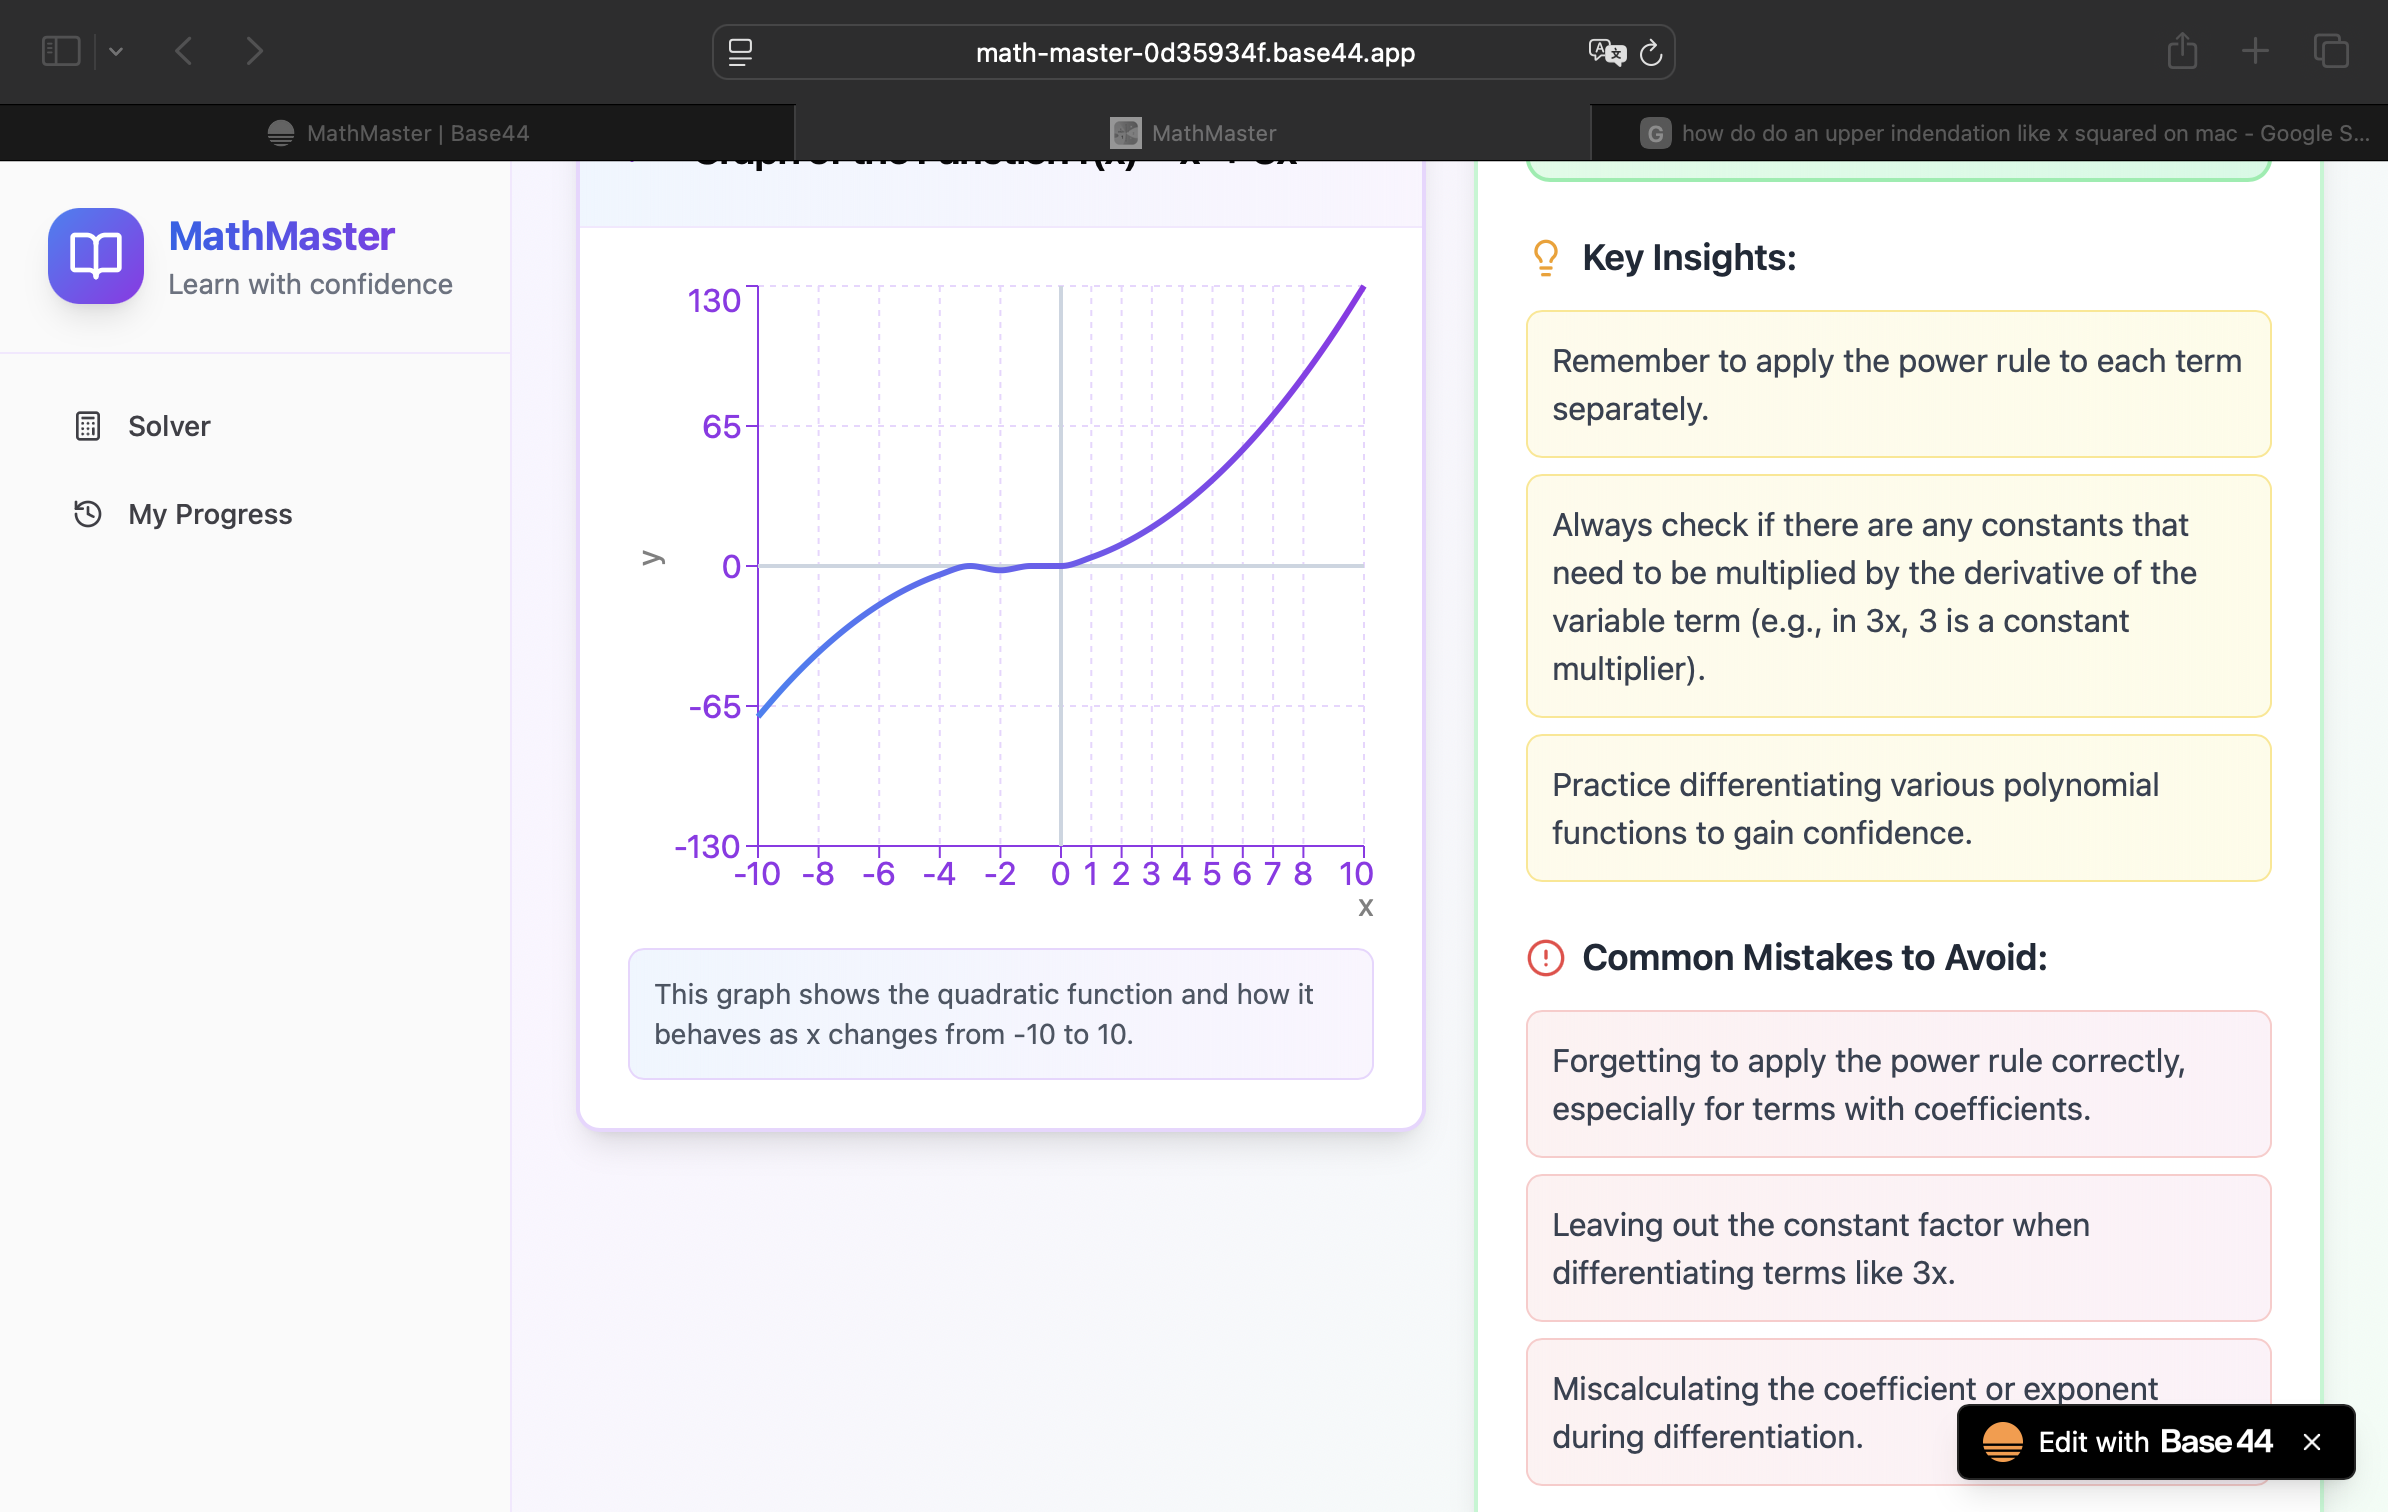
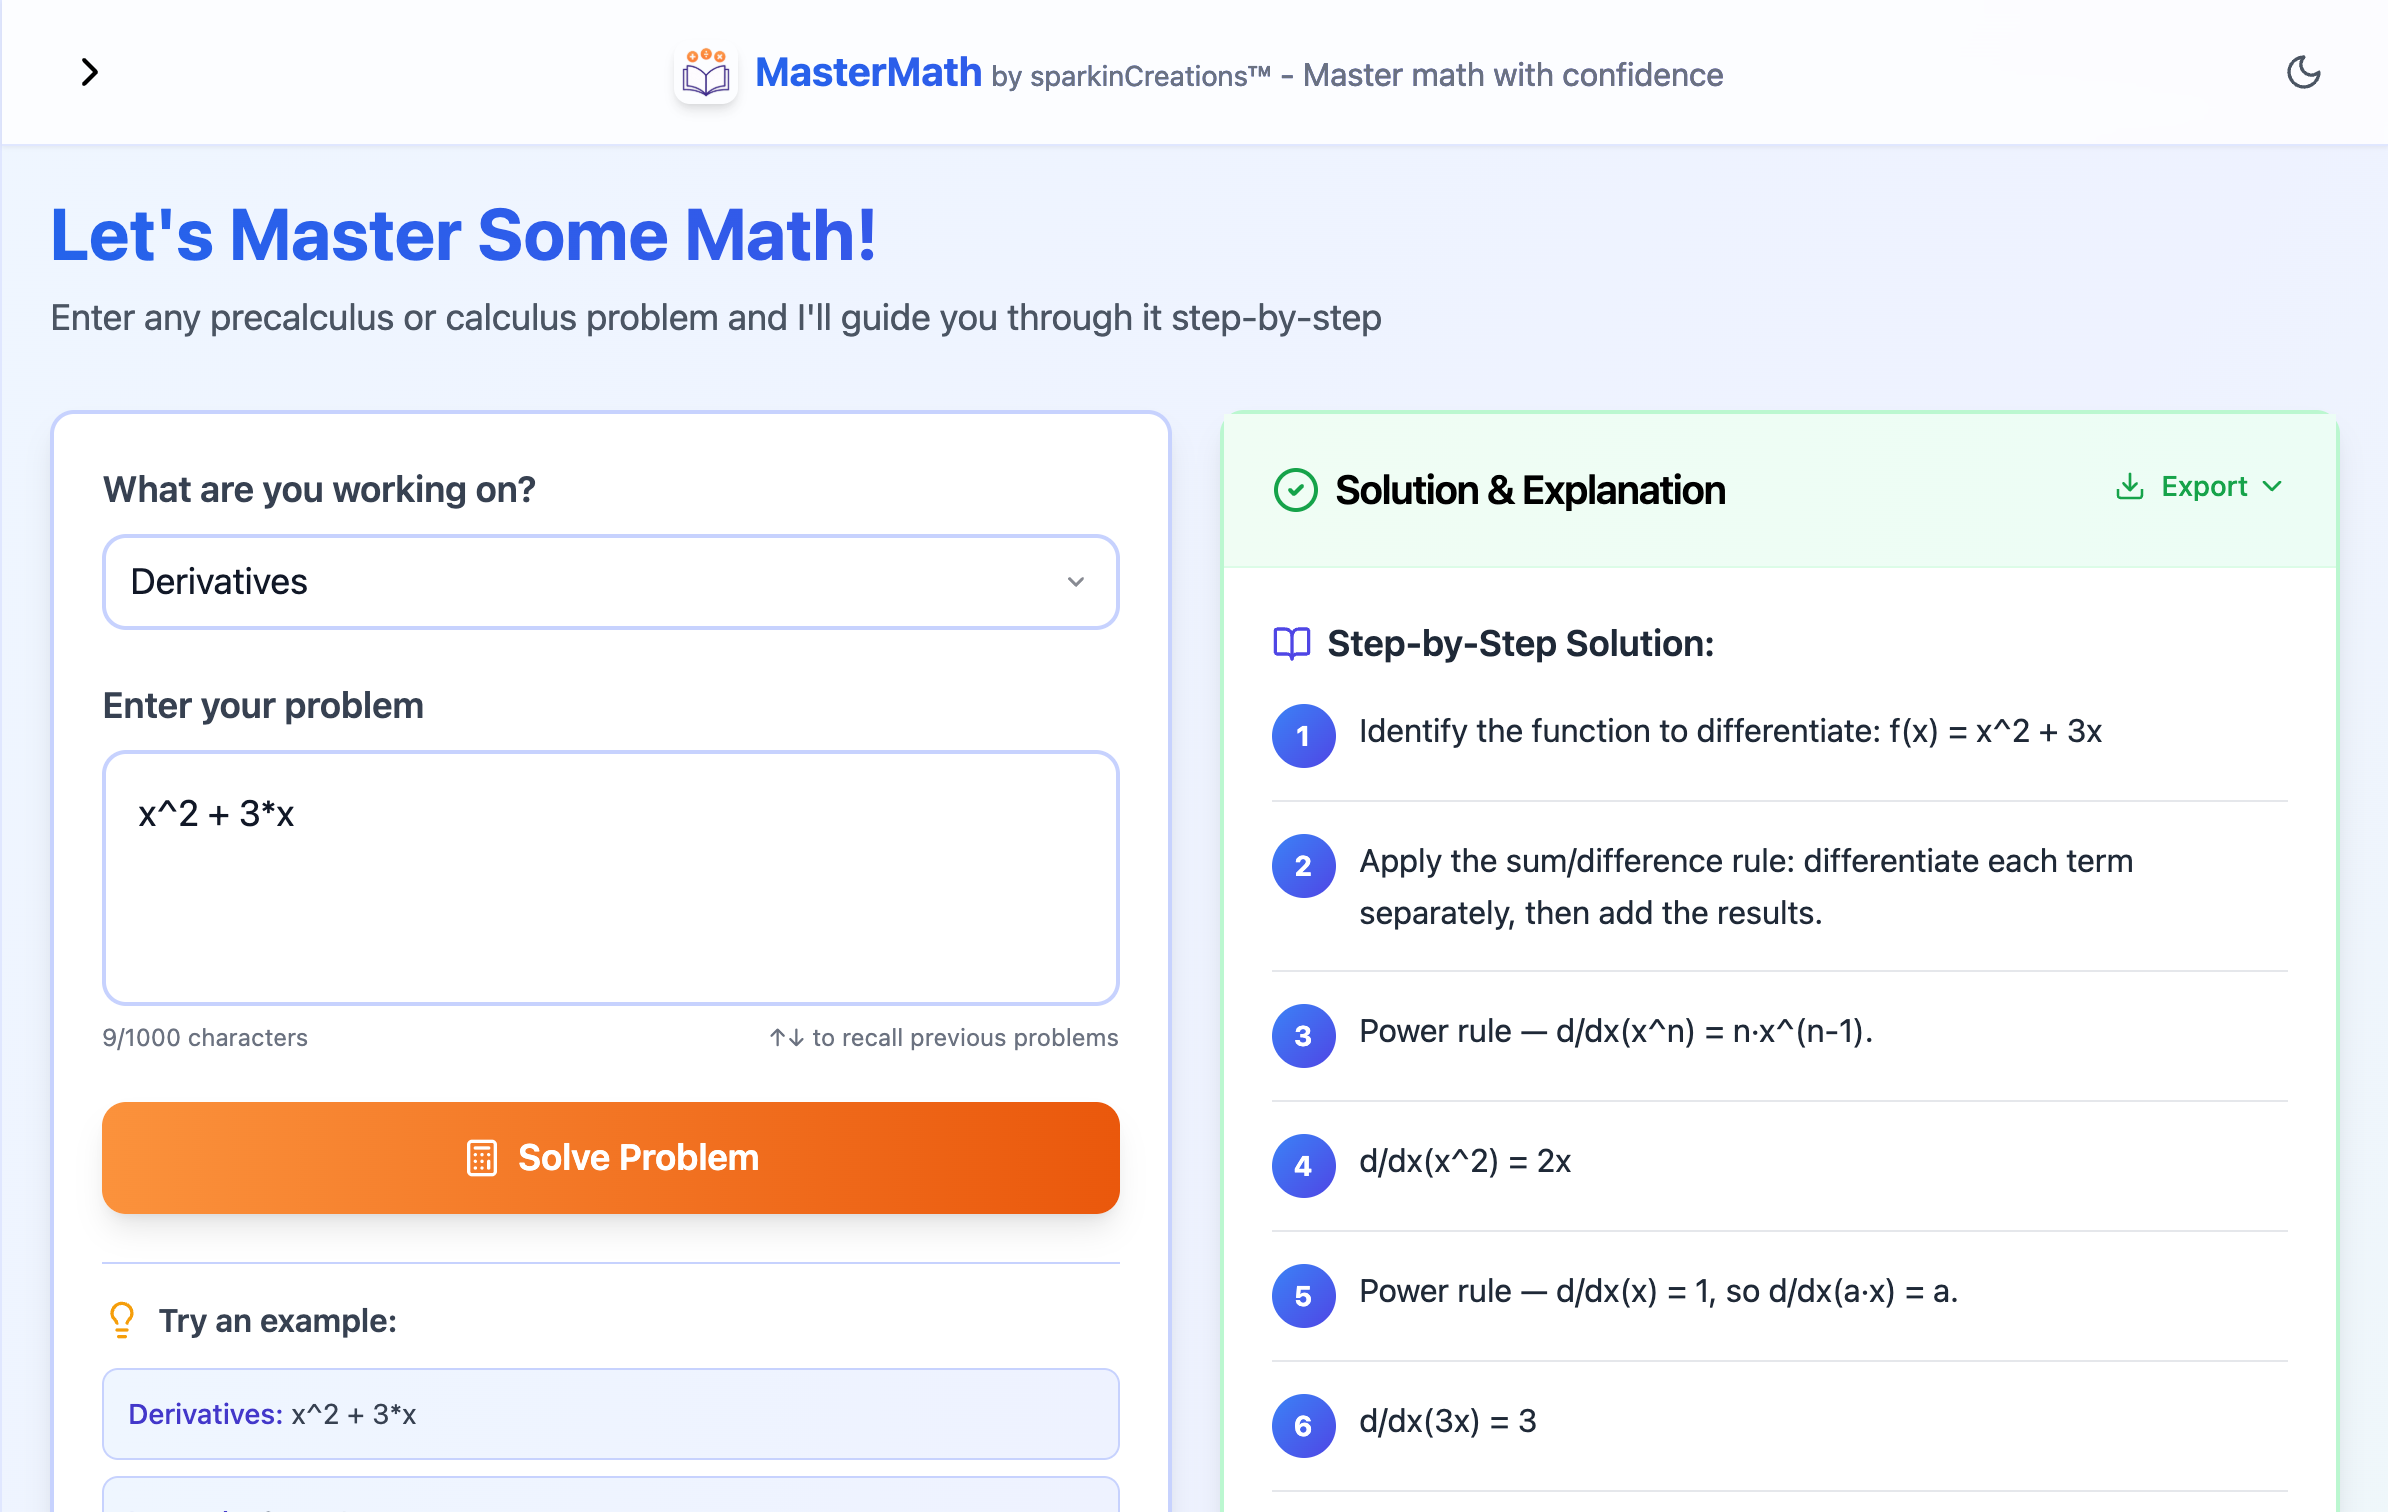
docs: refresh README for v1.3.1
- New screenshot: current design (indigo/orange, worked term-by-term
  steps) replacing the pre-rebrand purple UI capture
- Features updated to describe what the solvers actually do now:
  worked per-term steps, the symbolic limit ladder with verified
  answers, exact roots, asymptote handling, offline PWA, Settings
  with solver preferences
- Project structure tree updated: Settings page, settings store,
  solverUtils, service-worker hook, sw.js, the tests/ suite, and
  docs/future-work
- Noted the 55-test suite and regression coverage under How It Works

diff --git a/README.md b/README.md
@@ -14,13 +14,13 @@
 ## 🌟 Features
 
 ### 🧮 **Comprehensive Math Solver**
-- **Derivatives & Differentiation** - Step-by-step calculus solutions
-- **Integrals & Integration** - Detailed integration processes  
-- **Limits** - Limit calculations with explanations
-- **Algebra** - Equation solving and simplification
-- **Trigonometry** - Trig function solutions
+- **Derivatives & Differentiation** - Worked term-by-term, showing the rule used and the intermediate result for each term
+- **Integrals & Integration** - Real per-term antiderivatives with the technique named (power rule, u-substitution, by parts)
+- **Limits** - Symbolic strategy ladder (substitution → simplify → Taylor series → L'Hôpital), with answers independently cross-checked
+- **Algebra** - Equation solving with exact roots (radicals and complex numbers included)
+- **Trigonometry** - Special angles, degree/radian handling, and honest "Undefined" at vertical asymptotes
 - **Functions & Graphing** - Visual function analysis
-- **Arithmetic** - Basic mathematical operations
+- **Arithmetic** - Order-of-operations walkthroughs
 
 ### 📊 **Visual Learning**
 - **Interactive Graphs** - Visualize functions and solutions
@@ -29,13 +29,15 @@
 - **Educational Tips** - Contextual learning guidance
 
 ### 🔒 **Privacy-First Design**
-- **100% Client-Side** - No data sent to servers
+- **100% Client-Side** - No data sent to servers, no AI
+- **Works Offline** - Installable PWA; solve problems with no connection at all
 - **Local Storage** - Your problems stay on your device
 - **No Account Required** - Start solving immediately
-- **Export Functionality** - Save your work locally
+- **Export Functionality** - Save your work locally (PDF, CSV, JSON, Markdown)
 
 ### 🎨 **Modern User Experience**
 - **Dark/Light Mode** - Comfortable viewing in any environment
+- **Settings & Solver Preferences** - Choose your angle unit (auto/degrees/radians) and result precision
 - **Responsive Design** - Works on desktop, tablet, and mobile
 - **Progress Tracking** - Monitor your learning journey
 - **Clean Interface** - Focus on learning, not distractions
@@ -111,6 +113,11 @@ MasterMath uses **local JavaScript math libraries** (not AI) to solve problems:
 
 All computations happen **entirely in your browser** - no data is sent to external servers.
 
+The solvers are covered by an automated test suite (55 tests, `npm test`),
+including a regression suite that pins every previously-fixed math bug —
+from `tan(π/2)` floating-point artifacts to cancellation-prone limits —
+so they can't silently return.
+
 ## 📖 Educational Philosophy
 
 MasterMath is designed as a **learning companion**, not a homework shortcut:
@@ -160,6 +167,7 @@ MasterMath/
 │   │   ├── Home.jsx            # Landing page
 │   │   ├── Solver.jsx          # Main problem solver interface
 │   │   ├── Progress.jsx        # History & statistics
+│   │   ├── Settings.jsx        # Theme, solver preferences, data & about
 │   │   ├── UserManual.jsx      # Documentation
 │   │   ├── FAQ.jsx             # Frequently asked questions
 │   │   ├── Feedback.jsx        # User feedback form
@@ -170,10 +178,13 @@ MasterMath/
 │   │   ├── api.js              # Main API for solving & storage
 │   │   ├── indexedDB.js        # IndexedDB wrapper
 │   │   ├── mathParser.js       # Expression parsing utilities
+│   │   ├── mathstepsUtils.js   # mathsteps output formatting
+│   │   ├── settings.js         # User preferences (localStorage-backed)
 │   │   ├── exportUtils.js      # Export to PDF/CSV/JSON/Markdown
 │   │   ├── validation.js       # Input validation utilities
 │   │   ├── utils.js            # General utilities
 │   │   └── solvers/            # Topic-specific math solvers
+│   │       ├── solverUtils.js       # Shared helpers (beautify, terms, sampling)
 │   │       ├── algebraSolver.js
 │   │       ├── derivativesSolver.js
 │   │       ├── integralsSolver.js
@@ -184,7 +195,8 @@ MasterMath/
 │   │   └── DarkModeContext.jsx # Dark mode state management
 │   │
 │   ├── hooks/
-│   │   └── usePageTitle.js     # Custom hook for page titles
+│   │   ├── usePageTitle.js     # Custom hook for page titles
+│   │   └── useServiceWorker.js # PWA update detection & banner flow
 │   │
 │   ├── entities/
 │   │   └── ProblemHistory.json # IndexedDB schema definition
@@ -192,10 +204,20 @@ MasterMath/
 │   └── utils/
 │       └── index.js            # Utility functions
 │
+├── 🧪 Tests (tests/)
+│   ├── solvers.test.js         # Solver behavior across all topics
+│   ├── regressions.test.js     # Pinned past bugs (never let them return)
+│   ├── settings.test.js        # Preferences store & solver wiring
+│   ├── mathParser.test.js      # Input parsing
+│   ├── mathstepsUtils.test.js  # Step formatting
+│   ├── solverUtils.test.js     # Shared helpers
+│   └── validation.test.js      # Input validation
+│
 ├── 📁 Public Assets (public/)
 │   ├── favicon.svg             # App icon
 │   ├── favicon.png             # PNG favicon
 │   ├── manifest.json           # PWA manifest
+│   ├── sw.js                   # Offline-first service worker
 │   ├── robots.txt              # Search engine directives
 │   ├── sitemap.xml             # Site map
 │   ├── og-image.jpg            # Open Graph image
@@ -208,7 +230,12 @@ MasterMath/
     ├── CHANGELOG.md            # Version history
     ├── DEPLOYMENT.md           # Deployment instructions
     ├── SECURITY.md             # Security policy
-    └── LICENSE                 # MIT license
+    ├── LICENSE                 # MIT license
+    └── docs/
+        ├── HOW_THE_APP_WORKS.md     # Architecture & data flow guide
+        ├── FILE_STRUCTURE.md        # File organization docs
+        ├── REACT_GUIDE.md           # React concepts for this app
+        └── future-work/ROADMAP.md   # Prioritized future improvements
 ```
 
 ## 🤝 Contributing